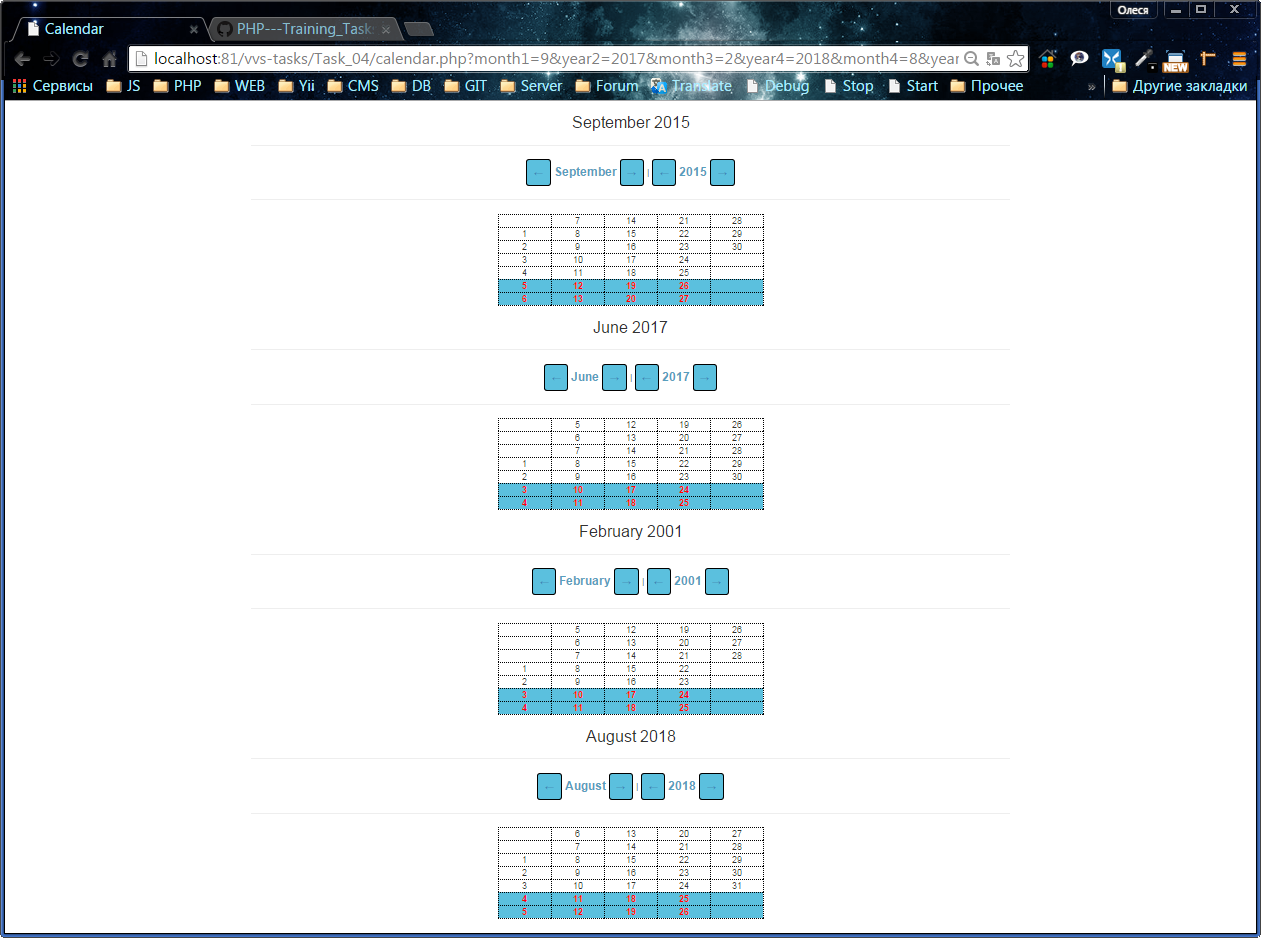
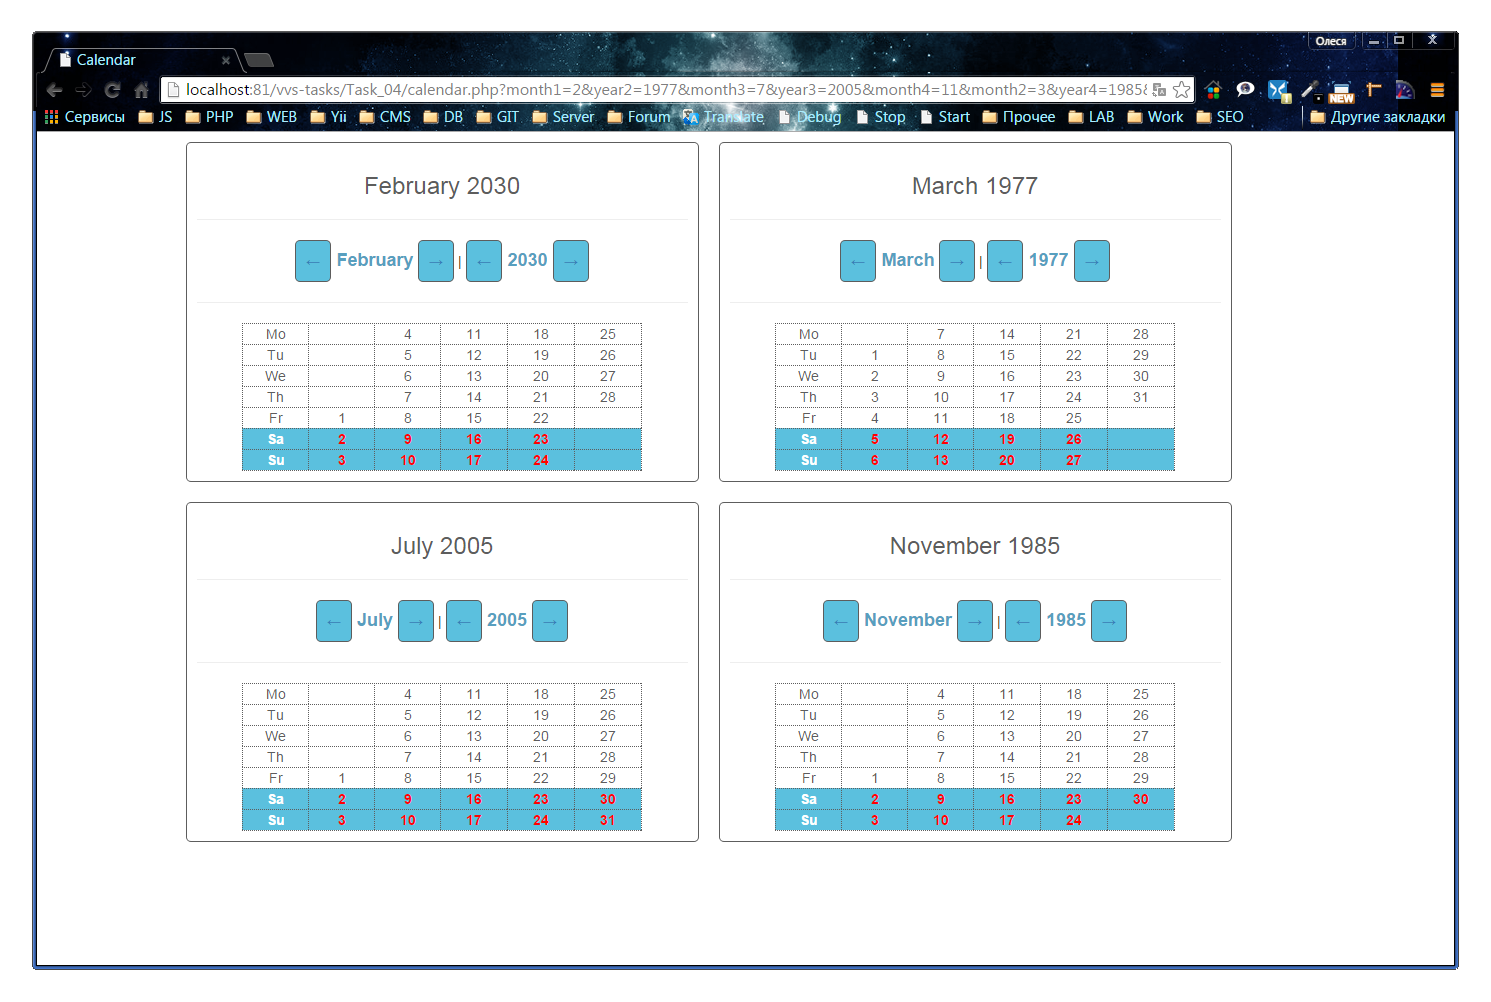
Add day of week to calendar

Changed region(s): [[0.0, 0.0, 1.0, 1.0], [0.2474, 0.5256, 0.3402, 0.5565]]

diff --git a/Task_04/css/style.css b/Task_04/css/style.css
@@ -1,12 +1,14 @@
 table {
+    margin: 0 auto;
     width: 400px;
     border: 1px dotted black;
+    color: #5d5d5d;
 }
 
 th, td {
     width: 50px;
     text-align: center;
-    border: 1px dotted black;
+    border: 1px dotted #5D5D5D;
 }
 
 tr:last-child, tr:nth-child(6) {
@@ -15,11 +17,15 @@ tr:last-child, tr:nth-child(6) {
     font-weight: bold;
 }
 
+h3{
+   color: #5D5D5D;
+}
+
 a {
     display: inline-block;
     text-decoration: none;
     padding: 10px;
-    border: 1px solid black;
+    border: 1px solid #5D5D5D;
     border-radius: 5px;
     background-color: #5bc0de;
 }
@@ -35,4 +41,13 @@ span {
     font-size: large;
     font-weight: bold;
     color: #589fbf;
+}
+#calendar{
+    border: 1px solid #5D5D5D;
+    border-radius: 5px;
+    padding: 10px;
+    width: 45%;
+    float: left;
+    text-align: center;
+    margin: 10px;
 }

diff --git a/Task_04/calendar.php b/Task_04/calendar.php
@@ -4,11 +4,10 @@
     <meta charset="utf-8">
     <title>Calendar</title>
     <link rel="stylesheet" href="https://maxcdn.bootstrapcdn.com/bootstrap/3.3.1/css/bootstrap.css">
-    <link rel="stylesheet" href="css/style.css"
-    ">
+    <link rel="stylesheet" href="css/style.css">
 </head>
 <body>
-<div class="container" align="center">
+<div class="container">
     <?php
 
     $today = getdate();
@@ -107,12 +106,15 @@
     {
         static $calendarNumber = 0;
         $calendarNumber++;
+        $daysOfWeek = ['Mo', 'Tu', 'We', 'Th', 'Fr', 'Sa', 'Su'];
         $html = '';
+        $html .= '<div id = "calendar">';
         $html .= getHeaderHtml(getMonth($calendarNumber), getYear($calendarNumber), $calendarNumber);
         $week = getMonthInArray($calendarNumber);
         $html .= "<table>";
         for ($j = 0; $j < 7; $j++) {
             $html .= "<tr>";
+            $html .= "<td>". $daysOfWeek[$j]."</td>";
             for ($i = 0; $i < count($week); $i++) {
                 if (!empty($week[$i][$j])) {
                     if ($j == 5 || $j == 6)
@@ -123,6 +125,7 @@
             $html .= "</tr>";
         }
         $html .= "</table>";
+        $html .= '</div>';
         return $html;
     }
 
